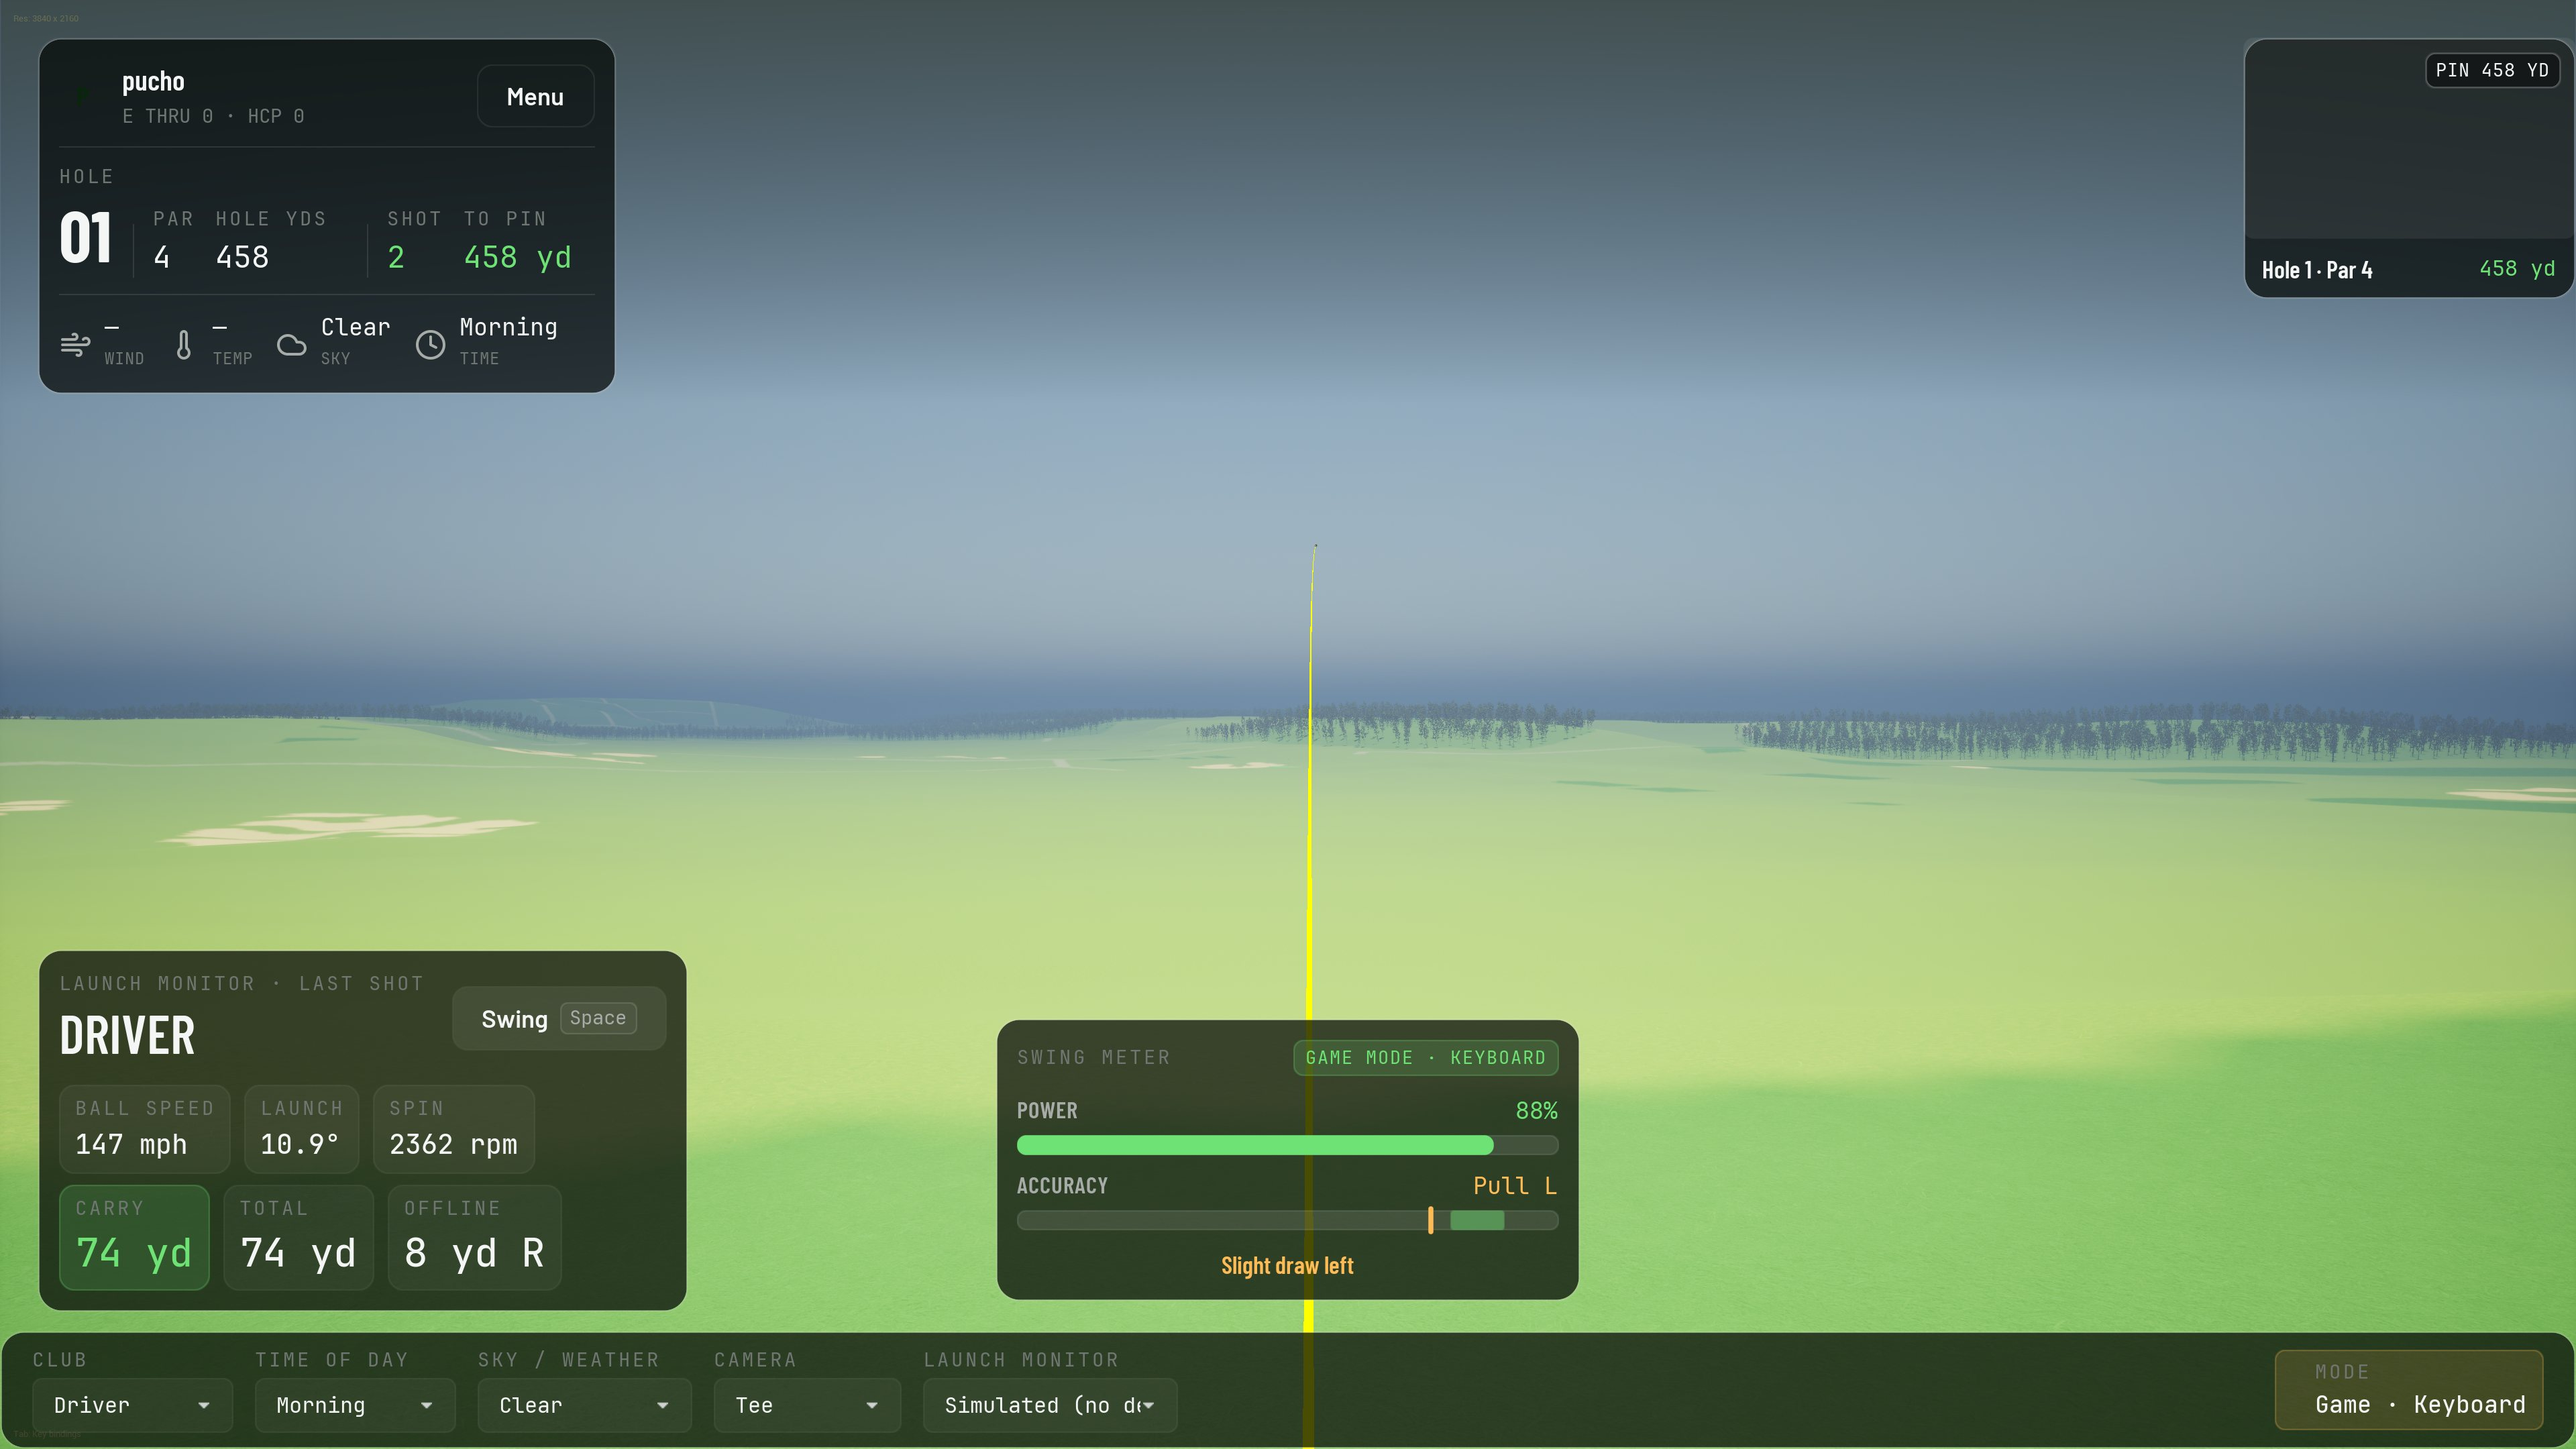
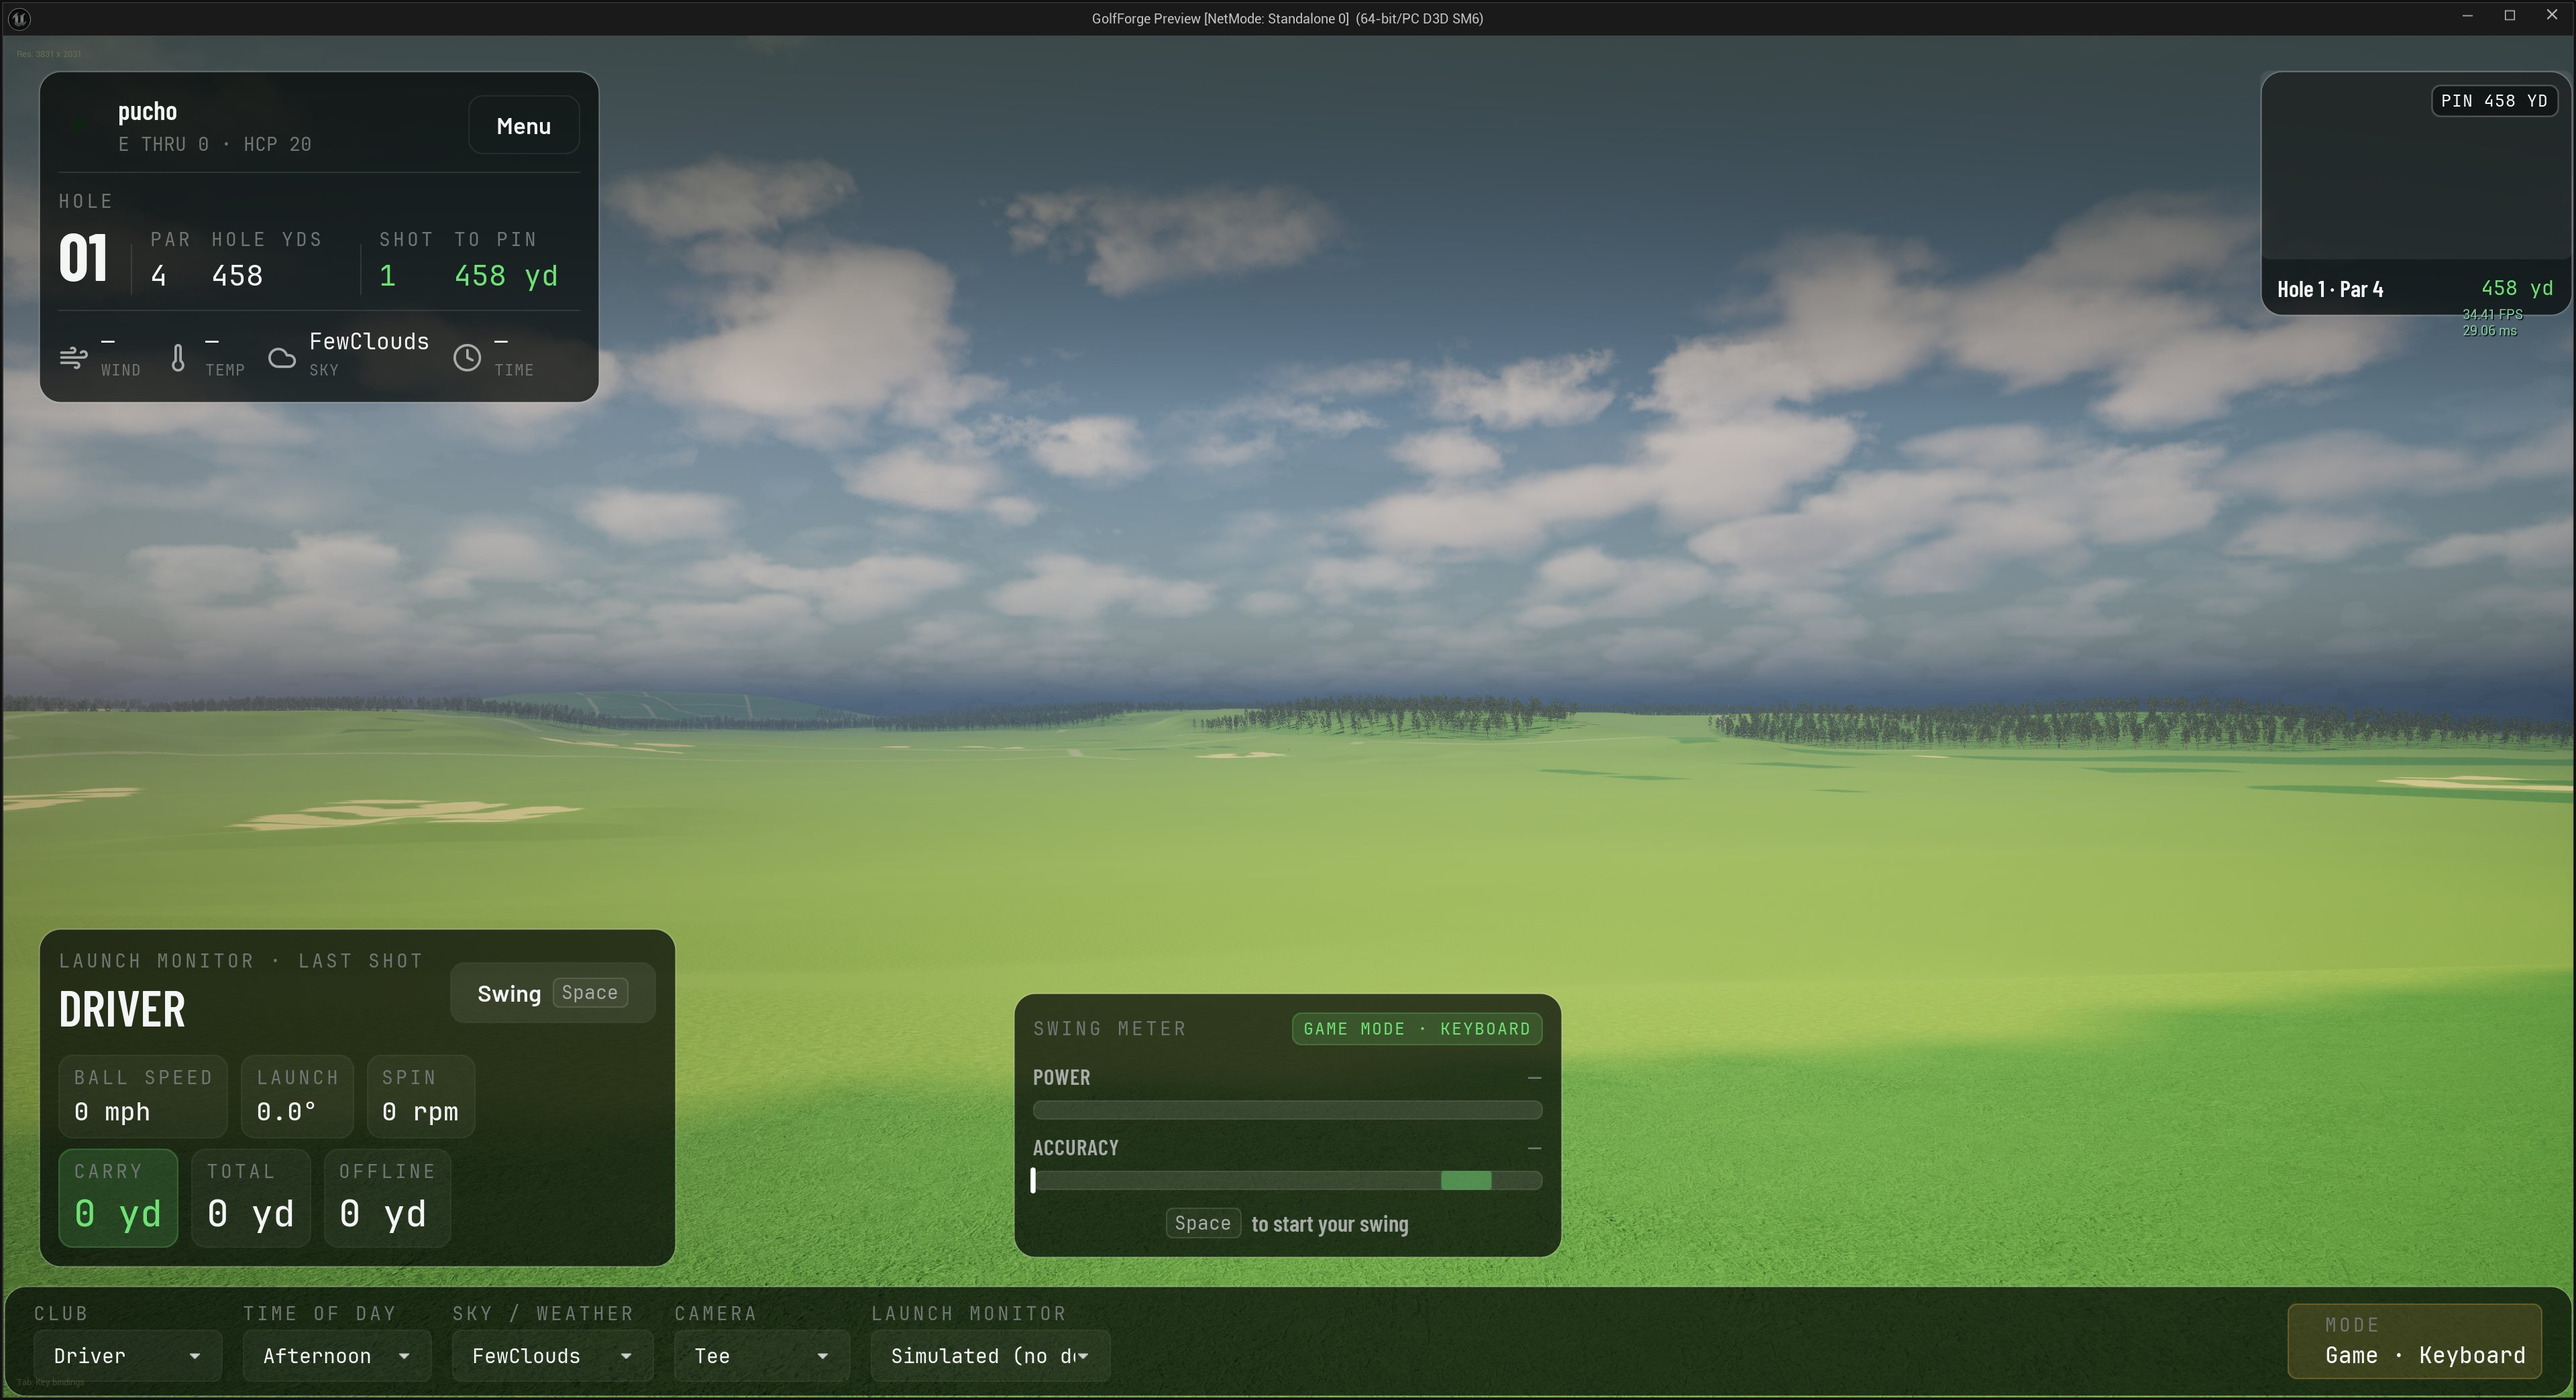
GOL-161: refresh course README screenshot with the new afternoon atmosphere
Replace docs/screenshots/coursehud.jpg with a fresh GolfForgeDemoBlack capture showing the placed AGolfEnvironment afternoon preset (sky + FewClouds, HUD conditions reading 'FewClouds', Afternoon/FewClouds on the control bar). Converted 3840x2088 PNG -> JPEG q85 (~658KB) to match the sibling scene shots.

Completes the last GOL-161 done-when item.

diff --git a/README.md b/README.md
@@ -39,7 +39,7 @@ Round setup is a three-step wizard — pick the course, set the format, add your
 
 Then you're on the course:
 
-![Mid-round on the course — glass HUD with the hole panel, conditions strip, hole map, launch-monitor readout and swing meter](docs/screenshots/coursehud.jpg)
+![Mid-round on the course under the afternoon sky — glass HUD with the hole panel, conditions strip, hole map, launch-monitor readout and swing meter](docs/screenshots/coursehud.jpg)
 
 ![Practice range — launch-monitor panel, swing meter and control bar over the tree-lined range](docs/screenshots/range.jpg)
 
